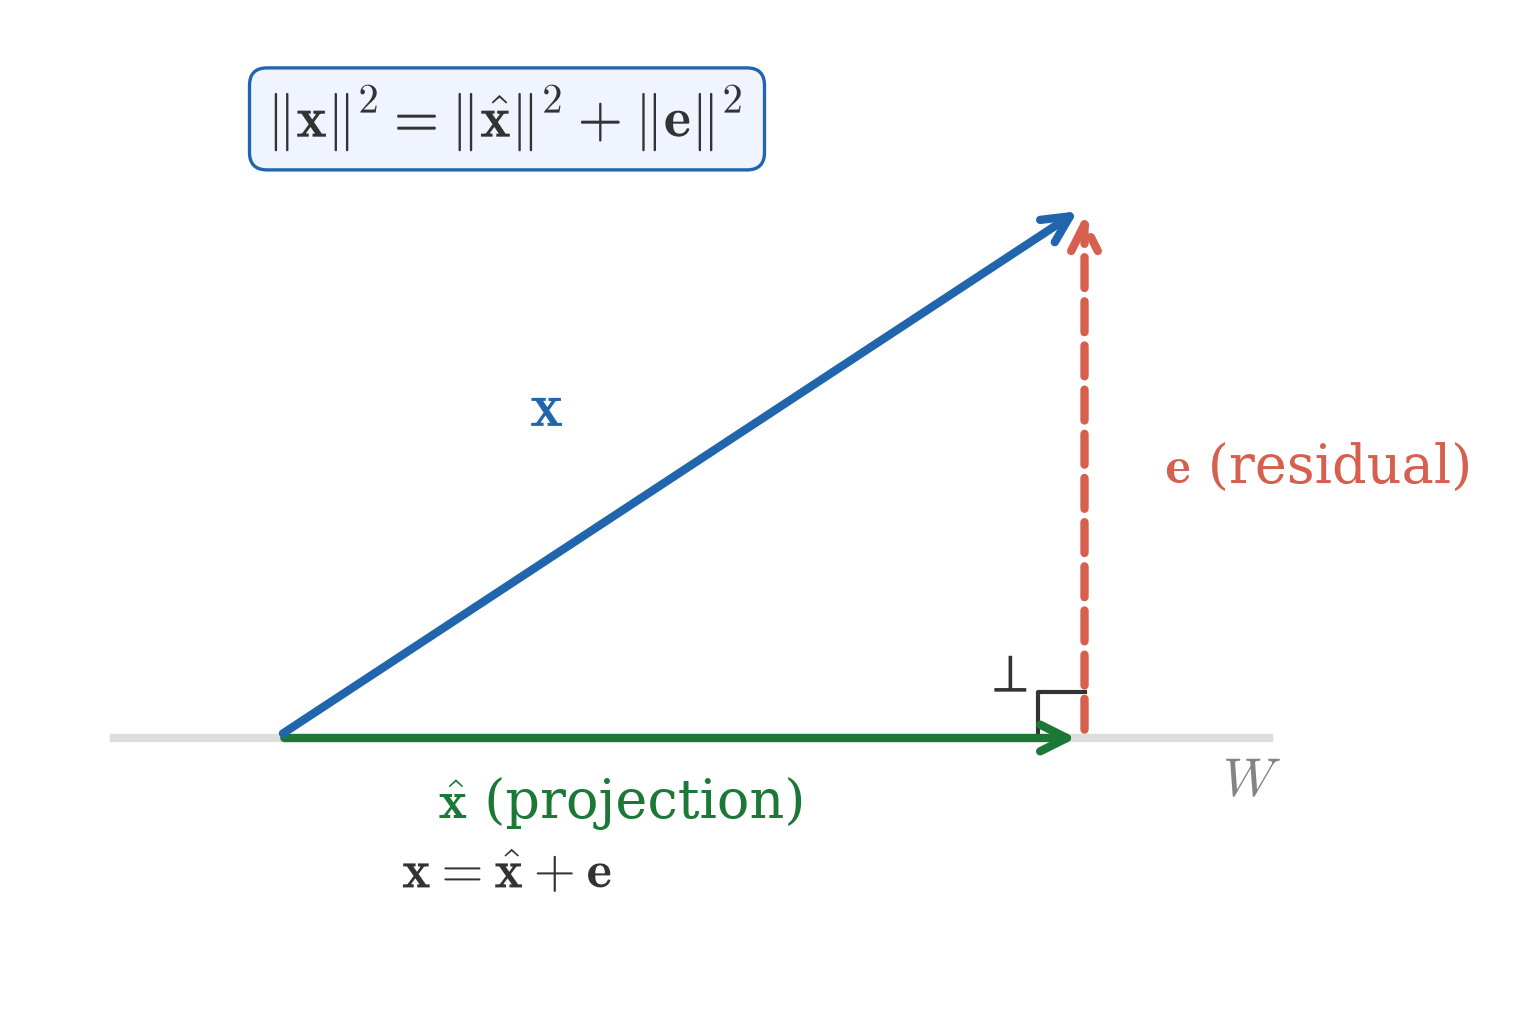
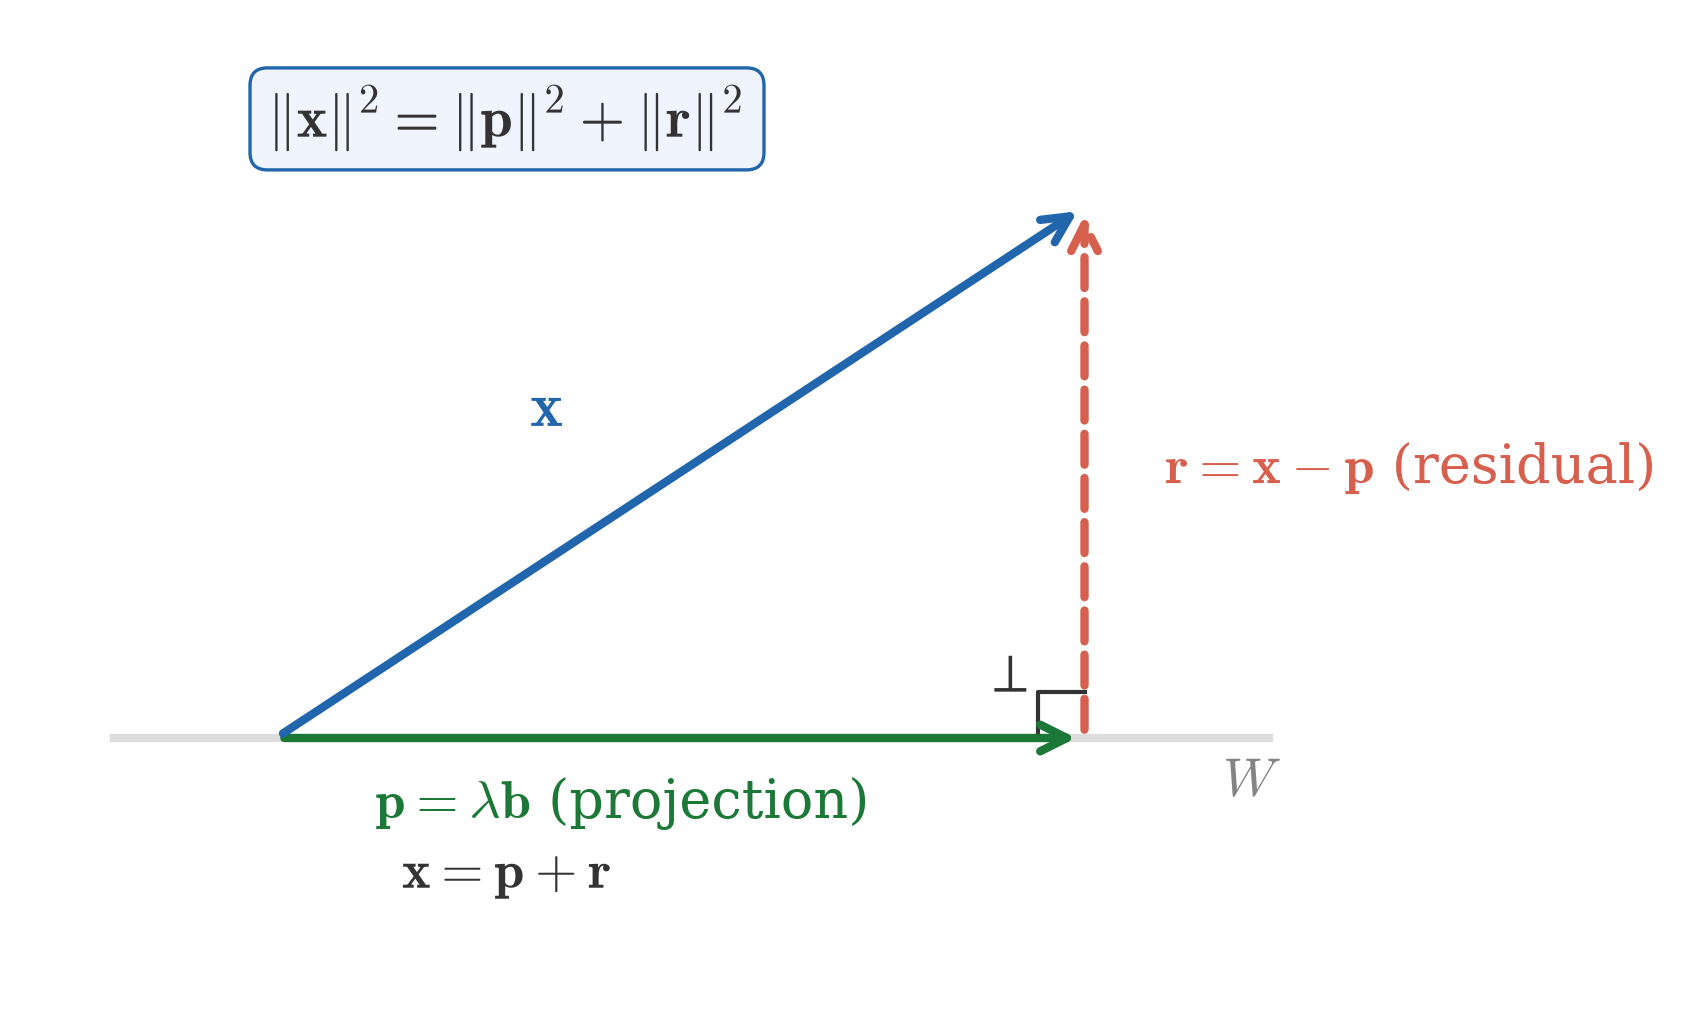
Republish Unit 2: figures beside the derivations, boxes no longer overlap floats

diff --git a/slides/math-for-ds-unit02.html b/slides/math-for-ds-unit02.html
@@ -228,6 +228,7 @@ DALL-E prompt for fig-2-02-closest-point:
 <!-- S12: Deriving the projection formula -->
 <section>
 <h4>Deriving the formula: where does the projection land?</h4>
+<img src="../images/unit02/u2-L03-fig05-projection-decomposition.png" alt="Right triangle: x is the hypotenuse, p the projection, r the residual" style="float:right; width:38%; margin:0 0 0.4em 1em; border-radius:6px;">
 <p>The closest point on the line is \(\mathbf{p} = \lambda \mathbf{b}\) for some scalar \(\lambda\). Which \(\lambda\)?</p>
 <div class="mathbox">
 <strong>Step 1:</strong> The residual must be perpendicular to the line:
@@ -269,9 +270,10 @@ DALL-E prompt for fig-2-03-projection-example:
 <!-- S13: The residual is the error -->
 <section>
 <h4>The residual: what's left over</h4>
+<img src="../images/unit02/u2-L03-fig04-projection-1d-example.png" alt="x, its projection p, and the residual r on the line through b" style="float:right; width:36%; margin:0 0 0.4em 1em; border-radius:6px;">
 <p>The <strong>residual</strong> is the gap between the original point and the projection:</p>
 <div class="mathbox">
-\[\mathbf{r} = \mathbf{x} - \text{projection} = (2,0) - (1,1) = (1,-1)\]
+\[\mathbf{r} = \mathbf{x} - \mathbf{p} = (2,0) - (1,1) = (1,-1)\]
 </div>
 <ul>
 <li class="fragment">The residual points from the projection back to the original point.</li>
@@ -287,8 +289,8 @@ DALL-E prompt for fig-2-03-projection-example:
 <h4>Why perpendicular = optimal</h4>
 <p>Think about it with the Pythagorean theorem:</p>
 <img src="../images/unit02/u2-L03-fig05-projection-decomposition.png" alt="Projection decomposition: x = projection + residual" style="float:right; max-height:350px; max-width:45%; margin:0 0 0.5em 1em; border-radius:6px;">
-<div class="mathbox fragment">
-\[\norm{\mathbf{x}}^2 = \norm{\text{projection}}^2 + \norm{\text{residual}}^2\]
+<div class="fragment">
+\[\norm{\mathbf{x}}^2 = \norm{\mathbf{p}}^2 + \norm{\mathbf{r}}^2\]
 </div>
 <ul>
 <li class="fragment">The projection and residual form a <strong>right triangle</strong>.</li>

diff --git a/css/math-for-ds.css b/css/math-for-ds.css
@@ -59,6 +59,18 @@
 
 /* ── Boxed components ──────────────────────────────────────────── */
 
+/* A float only makes *text* wrap; a block element's background still runs
+   underneath it, so a boxed component placed after a float:right image had
+   its fill drawn across the picture. flow-root makes each box its own block
+   formatting context, so it sits beside the float instead of under it. */
+.reveal .mathbox,
+.reveal .key-question,
+.reveal .applied,
+.reveal .quickcheck {
+  display: flow-root;
+}
+
+
 .reveal .mathbox {
   border: 1px solid rgba(40, 40, 40, 0.25);
   background: rgba(250, 250, 250, 0.95);
